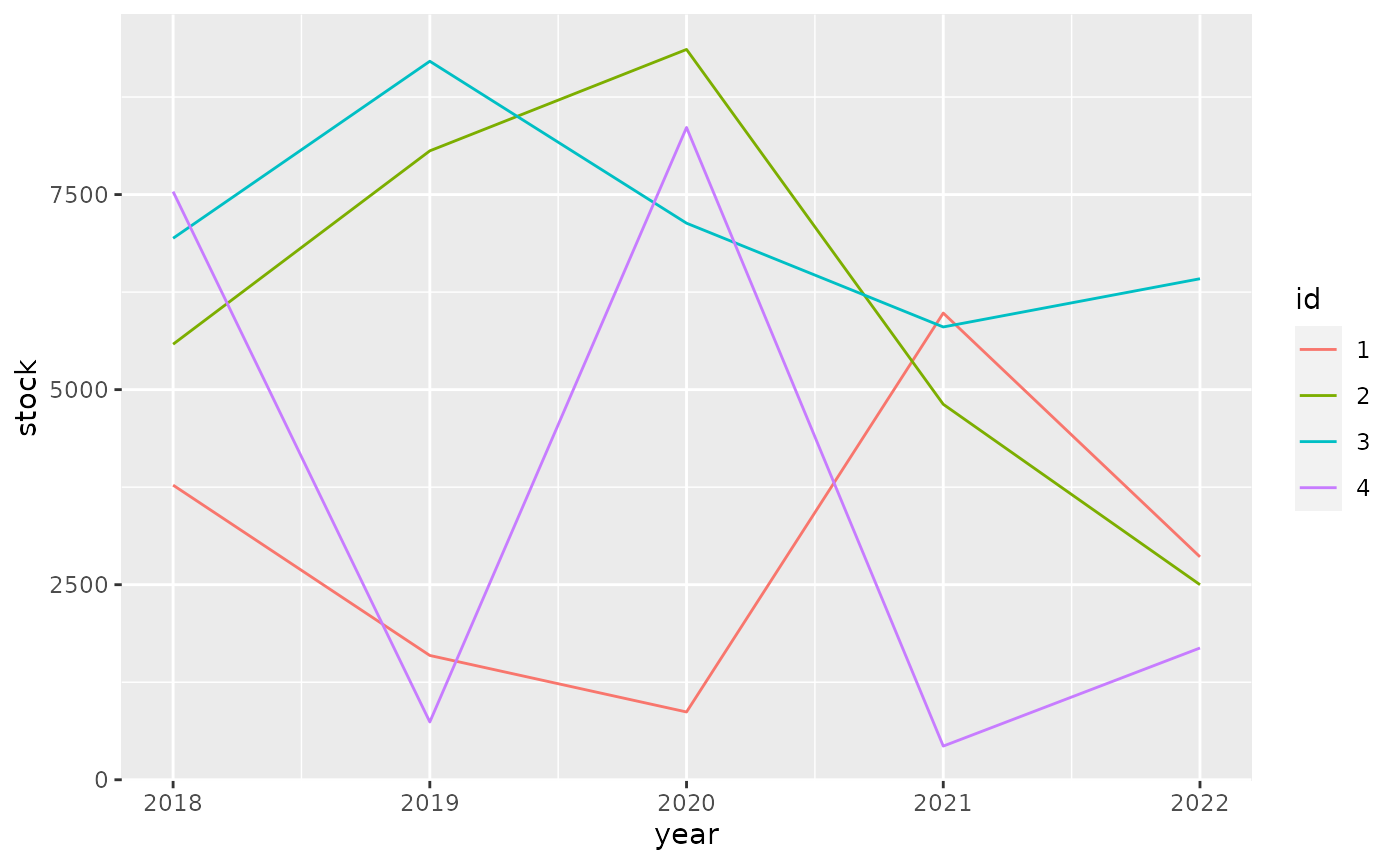
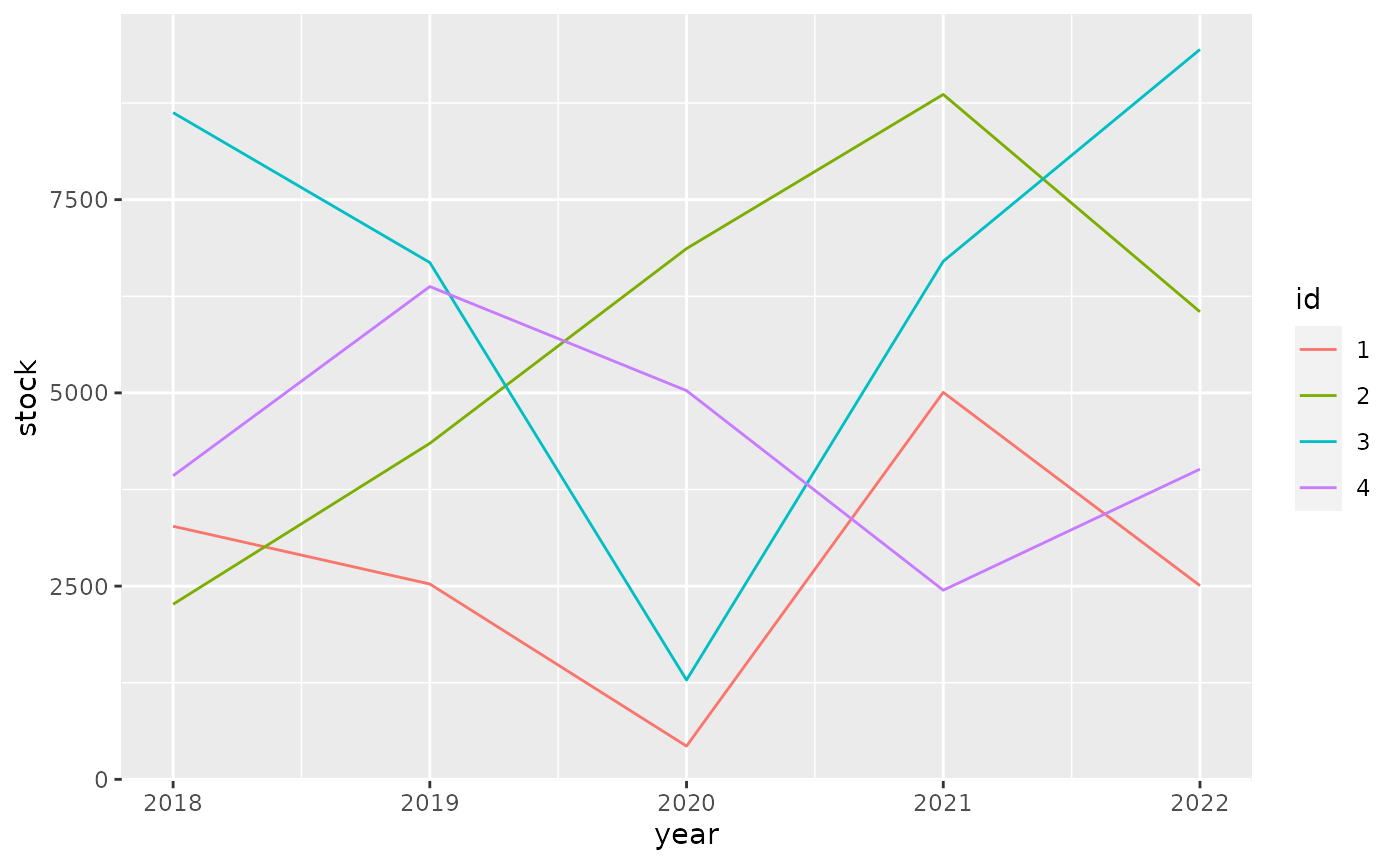
Built site for tibble: 3.0.4.9000@5881b43

diff --git a/dev/articles/formats.html b/dev/articles/formats.html
@@ -220,10 +220,10 @@
 <span class="co">#&gt; # A tibble: 4 x 6</span>
 <span class="co">#&gt;   id       `2018`    `2019`    `2020`    `2021`    `2022`</span>
 <span class="co">#&gt;   &lt;fct&gt; &lt;dbl:fmt&gt; &lt;dbl:fmt&gt; &lt;dbl:fmt&gt; &lt;dbl:fmt&gt; &lt;dbl:fmt&gt;</span>
-<span class="co">#&gt; 1 1     $3,775.98 $1,592.96   $868.79 $5,981.18 $2,856.90</span>
-<span class="co">#&gt; 2 2     $5,581.83 $8,060.25 $9,359.77 $4,812.19 $2,499.97</span>
-<span class="co">#&gt; 3 3     $6,939.73 $9,208.45 $7,133.10 $5,802.92 $6,421.10</span>
-<span class="co">#&gt; 4 4     $7,537.98   $740.54 $8,359.91   $431.42 $1,688.71</span></code></pre></div>
+<span class="co">#&gt; 1 1     $3,274.80 $2,527.46   $430.16 $5,007.10 $2,506.25</span>
+<span class="co">#&gt; 2 2     $2,265.11 $4,346.96 $6,866.85 $8,860.95 $6,048.78</span>
+<span class="co">#&gt; 3 3     $8,625.88 $6,686.21 $1,284.93 $6,702.44 $9,443.26</span>
+<span class="co">#&gt; 4 4     $3,927.56 $6,375.55 $5,029.19 $2,447.10 $4,013.38</span></code></pre></div>
 <p>For ggplot2 we need to do <a href="https://github.com/tidyverse/ggplot2/pull/4065">some work</a> to show apply the formatting to the scales.</p>
 <div class="sourceCode" id="cb6"><pre class="downlit sourceCode r">
 <code class="sourceCode R"><span class="kw"><a href="https://rdrr.io/r/base/library.html">library</a></span><span class="op">(</span><span class="va"><a href="http://ggplot2.tidyverse.org">ggplot2</a></span><span class="op">)</span>
@@ -234,10 +234,10 @@
   <span class="fu"><a href="https://ggplot2.tidyverse.org/reference/geom_path.html">geom_line</a></span><span class="op">(</span><span class="op">)</span></code></pre></div>
 <p><img src="formats_files/figure-html/unnamed-chunk-7-1.png" width="700"></p>
 <p>It pays off to specify formatting very early in the process. The diagram below shows the principal stages of data analysis and exploration from “R for data science”.</p>
-<div id="htmlwidget-96f4536a0cb5a842ccee" style="width:700px;height:432.632880098888px;" class="DiagrammeR html-widget"></div>
-<script type="application/json" data-for="htmlwidget-96f4536a0cb5a842ccee">{"x":{"diagram":"graph TD\n  Import --> Tidy\n  Tidy --> Transform\n  Transform --> Visualize\n  Visualize --> Communicate\n  Visualize --> Model\n  Model -.-> Transform"},"evals":[],"jsHooks":[]}</script><p>The subsequent diagram adds data formats, communication options, and explicit data formatting. The original r4ds transitions are highlighted in bold. There are two principal options where to apply formatting for results: right before communicating them, or right after importing.</p>
-<div id="htmlwidget-c24532461cc4b937cafc" style="width:700px;height:432.632880098888px;" class="DiagrammeR html-widget"></div>
-<script type="application/json" data-for="htmlwidget-c24532461cc4b937cafc">{"x":{"diagram":"graph TD\n  .csv --> Import\n  API --> Import\n  DBI --> Import\n  dbplyr --> Import\n  Import -.-> Format[Format for analysis]\n  Format -.-> Tidy\n\n  subgraph r4ds\n  Import ==> Tidy\n  Tidy ==> Transform\n  Transform ==> Visualize\n  Visualize ==> Model\n  Model -.-> Transform\n  Visualize ==> Communicate\n  end\n\n  Visualize -.-> FormatComm[Format for communication]\n  FormatComm -.-> Communicate\n\n  FormatComm -- Apply formatting early --> Format\n\n  dbplyr -.-> Tidy\n  dbplyr -.-> Transform\n  dbplyr -.-> Visualize\n\n  Communicate --> gt\n  Communicate --> ggplot2\n  Communicate --> DT\n  Communicate --> plotly"},"evals":[],"jsHooks":[]}</script><p>Applying formatting early in the process gives the added benefit of showing the data in a useful format during the “Tidy”, “Transform”, and “Visualize” stages. For this to be useful, we need to ensure that the formatting options applied early:</p>
+<div id="htmlwidget-3cfb09799d162f9b092f" style="width:700px;height:432.632880098888px;" class="DiagrammeR html-widget"></div>
+<script type="application/json" data-for="htmlwidget-3cfb09799d162f9b092f">{"x":{"diagram":"graph TD\n  Import --> Tidy\n  Tidy --> Transform\n  Transform --> Visualize\n  Visualize --> Communicate\n  Visualize --> Model\n  Model -.-> Transform"},"evals":[],"jsHooks":[]}</script><p>The subsequent diagram adds data formats, communication options, and explicit data formatting. The original r4ds transitions are highlighted in bold. There are two principal options where to apply formatting for results: right before communicating them, or right after importing.</p>
+<div id="htmlwidget-b28ee53403fa254737ec" style="width:700px;height:432.632880098888px;" class="DiagrammeR html-widget"></div>
+<script type="application/json" data-for="htmlwidget-b28ee53403fa254737ec">{"x":{"diagram":"graph TD\n  .csv --> Import\n  API --> Import\n  DBI --> Import\n  dbplyr --> Import\n  Import -.-> Format[Format for analysis]\n  Format -.-> Tidy\n\n  subgraph r4ds\n  Import ==> Tidy\n  Tidy ==> Transform\n  Transform ==> Visualize\n  Visualize ==> Model\n  Model -.-> Transform\n  Visualize ==> Communicate\n  end\n\n  Visualize -.-> FormatComm[Format for communication]\n  FormatComm -.-> Communicate\n\n  FormatComm -- Apply formatting early --> Format\n\n  dbplyr -.-> Tidy\n  dbplyr -.-> Transform\n  dbplyr -.-> Visualize\n\n  Communicate --> gt\n  Communicate --> ggplot2\n  Communicate --> DT\n  Communicate --> plotly"},"evals":[],"jsHooks":[]}</script><p>Applying formatting early in the process gives the added benefit of showing the data in a useful format during the “Tidy”, “Transform”, and “Visualize” stages. For this to be useful, we need to ensure that the formatting options applied early:</p>
 <ul>
 <li>give a good user experience for analysis
 <ul>

diff --git a/dev/articles/types.html b/dev/articles/types.html
@@ -350,7 +350,7 @@
 #&gt; $ factor        &lt;fct&gt; A
 #&gt; $ ordered       &lt;ord&gt; a
 #&gt; $ Date          &lt;date&gt; 2020-12-13
-#&gt; $ POSIXt        &lt;dttm&gt; 2020-12-13 07:01:32
+#&gt; $ POSIXt        &lt;dttm&gt; 2020-12-13 11:50:02
 #&gt; $ difftime      &lt;drtn&gt; 1 secs
 #&gt; $ hms           &lt;time&gt; 00:00:01
 #&gt; $ integer64     &lt;int64&gt; 10000000000
@@ -380,7 +380,7 @@
 <span class="co">#&gt;             "sym"</span>
 <span class="co">#&gt;         }, typeof(x))</span>
 <span class="co">#&gt; }</span>
-<span class="co">#&gt; &lt;bytecode: 0x55da9396a358&gt;</span>
+<span class="co">#&gt; &lt;bytecode: 0x56258560d320&gt;</span>
 <span class="co">#&gt; &lt;environment: namespace:pillar&gt;</span></code></pre></div>
 </div>
   </div>
